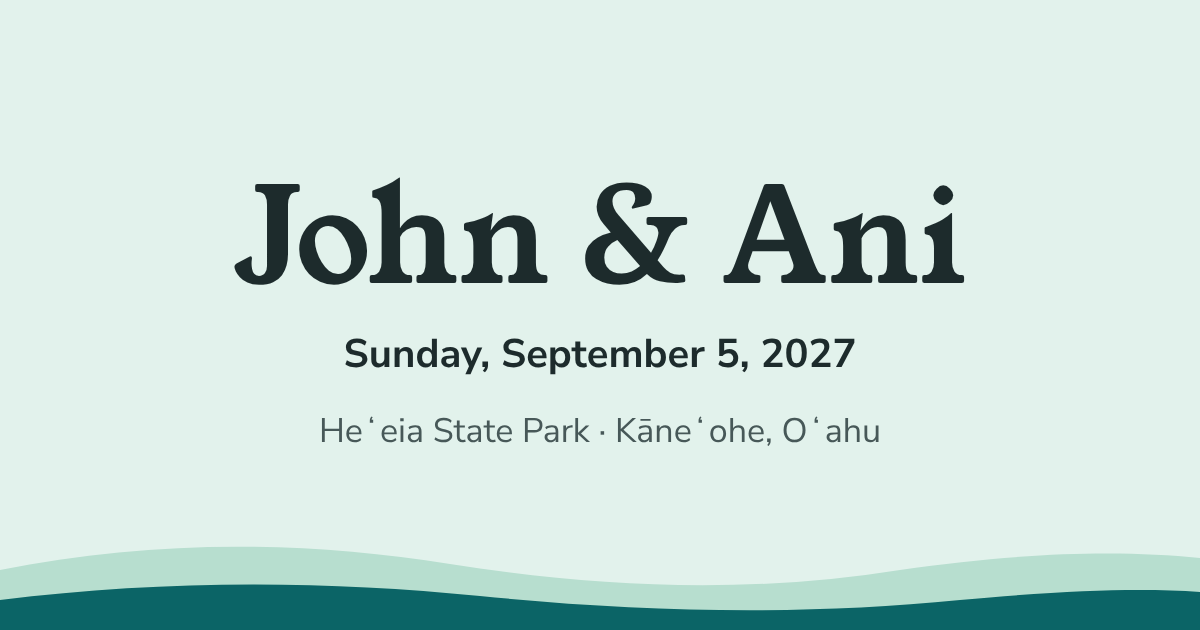
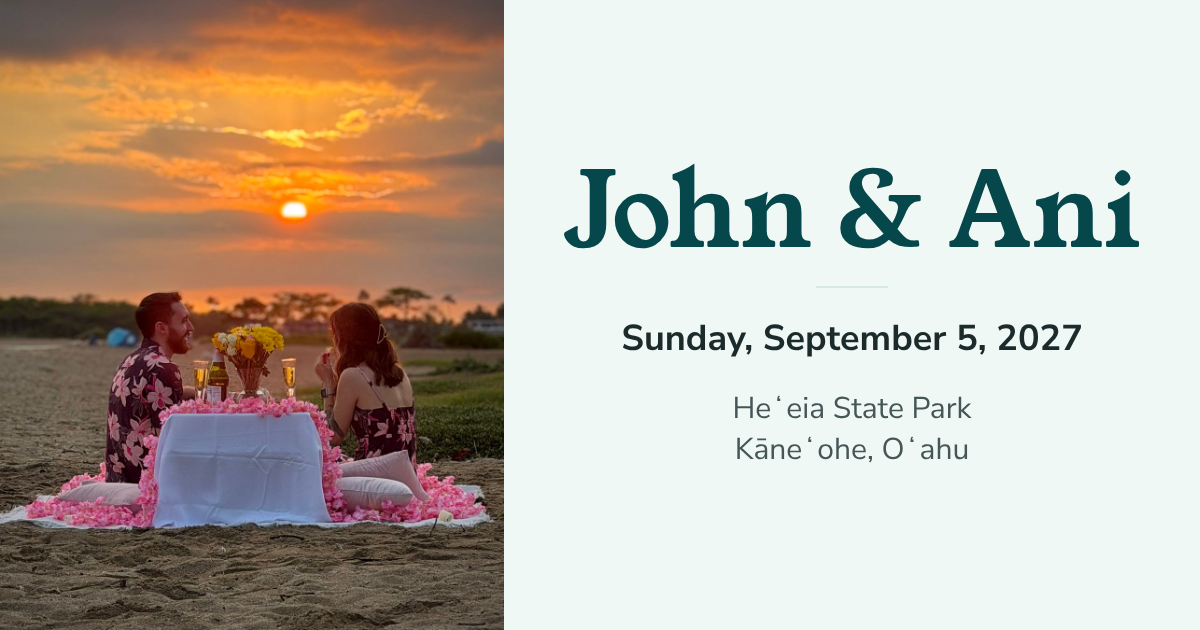
Add wedding photos and refine the palette
- Hero photo on the home section and six story photos with captions,
  plus one photo in Travel and stay. All are cropped, resized, and
  saved with no EXIF data, so no GPS coordinates are published
- Lighter seafoam and darker teal throughout; names and countdown in
  teal, lighter button weight, deep teal footer
- Link preview image now pairs the hero photo with names and date
- Spell the point as Keʻalohi Point

Claude-Session: https://claude.ai/code/session_01FQMpAy4WaidZbc2577iJmn

diff --git a/wedding/index.html b/wedding/index.html
@@ -7,13 +7,13 @@
 <meta name="description" content="John and Ani’s wedding on Sunday, September 5, 2027 at Heʻeia State Park, Kāneʻohe, Oʻahu. Schedule, travel, and RSVP.">
 <meta name="robots" content="noindex, nofollow">
 <meta name="color-scheme" content="light">
-<meta name="theme-color" content="#E2F2EC">
+<meta name="theme-color" content="#F0F8F5">
 <meta property="og:type" content="website">
 <meta property="og:title" content="John &amp; Ani · September 5, 2027">
 <meta property="og:description" content="Our wedding at Heʻeia State Park on Oʻahu. Schedule, travel, and RSVP.">
 <meta property="og:image:width" content="1200">
 <meta property="og:image:height" content="630">
-<meta property="og:image:alt" content="John and Ani, Sunday, September 5, 2027, Heʻeia State Park, Kāneʻohe, Oʻahu">
+<meta property="og:image:alt" content="John and Ani at a table on the beach at sunset, with the date September 5, 2027 and Heʻeia State Park, Kāneʻohe, Oʻahu">
 <meta name="twitter:card" content="summary_large_image">
 <!-- build:head -->
 <link rel="canonical" href="https://manionjohn.com/wedding/">
@@ -65,6 +65,7 @@
       <h1 id="names">John &amp; Ani</h1>
       <p class="hero-date">Sunday, September 5, 2027</p>
       <p class="hero-place">Heʻeia State Park<br>Kāneʻohe, Oʻahu</p>
+      <img class="hero-photo" src="assets/img/hero.jpg" width="1080" height="1350" alt="John and Ani at a flower-covered table on the beach at sunset">
       <div class="countdown" id="countdown" role="timer" aria-label="Countdown to the wedding" hidden></div>
       <p class="hero-welcome"><span class="tbd">[TBD] Short welcome line</span></p>
       <a class="btn btn-large" href="rsvp/">RSVP</a>
@@ -81,12 +82,12 @@
         <p class="tbd-block">[TBD] The proposal, and why we chose Oʻahu.</p>
       </div>
       <div class="photo-grid">
-        <figure><div class="photo-slot" role="img" aria-label="Photo placeholder 1">[TBD] Photo 1</div><figcaption><span class="tbd">[TBD] Caption</span></figcaption></figure>
-        <figure><div class="photo-slot" role="img" aria-label="Photo placeholder 2">[TBD] Photo 2</div><figcaption><span class="tbd">[TBD] Caption</span></figcaption></figure>
-        <figure><div class="photo-slot" role="img" aria-label="Photo placeholder 3">[TBD] Photo 3</div><figcaption><span class="tbd">[TBD] Caption</span></figcaption></figure>
-        <figure><div class="photo-slot" role="img" aria-label="Photo placeholder 4">[TBD] Photo 4</div><figcaption><span class="tbd">[TBD] Caption</span></figcaption></figure>
-        <figure><div class="photo-slot" role="img" aria-label="Photo placeholder 5">[TBD] Photo 5</div><figcaption><span class="tbd">[TBD] Caption</span></figcaption></figure>
-        <figure><div class="photo-slot" role="img" aria-label="Photo placeholder 6">[TBD] Photo 6</div><figcaption><span class="tbd">[TBD] Caption</span></figcaption></figure>
+        <figure><img src="assets/img/story-1.jpg" width="800" height="1000" loading="lazy" alt="Selfie of Ani and John, Ani with tongue out"><figcaption>When we became official! January 2022</figcaption></figure>
+        <figure><img src="assets/img/story-2.jpg" width="800" height="1000" loading="lazy" alt="John and Ani smiling on a balcony above the ocean at dusk"><figcaption><span class="tbd">[TBD] Caption</span></figcaption></figure>
+        <figure><img src="assets/img/story-3.jpg" width="300" height="375" loading="lazy" alt="John and Ani sitting together on a leather couch"><figcaption>Ani’s 25th birthday, May 2023</figcaption></figure>
+        <figure><img src="assets/img/story-4.jpg" width="800" height="1000" loading="lazy" alt="Ani and John about to kiss in front of the Golden Gate Bridge"><figcaption>San Francisco, 2024</figcaption></figure>
+        <figure><img src="assets/img/story-5.jpg" width="800" height="1000" loading="lazy" alt="Ani dressed as Princess Peach and John as Waluigi"><figcaption>Halloween, 2025</figcaption></figure>
+        <figure><img src="assets/img/story-6.jpg" width="800" height="1000" loading="lazy" alt="John and Ani wearing lei at a party"><figcaption>Our proposal party, January 2026</figcaption></figure>
       </div>
     </div>
   </section>
@@ -120,7 +121,7 @@
       <div class="stack">
         <h3>Heʻeia State Park</h3>
         <address class="address">46-465 Kamehameha Hwy<br>Kāneʻohe, HI 96744</address>
-        <p>The park sits on Kealohi Point on the windward side of Oʻahu, looking out over Kāneʻohe Bay toward Mokuoloʻe (Coconut Island).</p>
+        <p>The park sits on Keʻalohi Point on the windward side of Oʻahu, looking out over Kāneʻohe Bay toward Mokuoloʻe (Coconut Island).</p>
         <p><span class="tbd">[TBD] Where in the park the ceremony and reception are</span></p>
       </div>
       <iframe class="map-frame" title="Map of Heʻeia State Park" loading="lazy" referrerpolicy="no-referrer"
@@ -150,6 +151,7 @@
   <section class="section band" id="travel" aria-labelledby="travel-title">
     <div class="section-inner">
       <h2 id="travel-title">Travel and stay</h2>
+      <img class="wide-photo" src="assets/img/sunset.jpg" width="1280" height="853" loading="lazy" alt="Ani and John smiling at sunset with palm trees behind them">
       <div class="note">
         <p class="note-title">It’s Labor Day weekend</p>
         <p>The wedding is on the Sunday of Labor Day weekend, and Monday, September 6 is the holiday. Flights, hotels, and rental cars on Oʻahu fill up and get expensive, so please book early.</p>

diff --git a/wedding/assets/site.css b/wedding/assets/site.css
@@ -36,15 +36,16 @@
 
 :root {
   /* Seafoam and teal. Text colors pass WCAG AA on both --sand and --seafoam. */
-  --sand: #FBFAF6;
+  --sand: #FDFDFB;
   --white: #FFFFFF;
-  --seafoam: #E2F2EC;
-  --seafoam-deep: #B7DECF;
-  --ink: #1D2B2C;
-  --muted: #475858;
-  --teal: #0B6466;
-  --teal-dark: #084A4C;
-  --line: #CFE2DB;
+  --seafoam: #F0F8F5;
+  --seafoam-deep: #D4EAE2;
+  --ink: #1B2A2B;
+  --muted: #455657;
+  --teal: #05474A;
+  --teal-dark: #033234;
+  --footer: #06363A;
+  --line: #DCEAE5;
   --field-border: #637877;
   --tbd-bg: #FFF4C2;
   --tbd-border: #8A6D00;
@@ -96,8 +97,8 @@ p { margin: 0; }
 .btn {
   display: inline-flex; align-items: center; justify-content: center; gap: 8px;
   min-height: 48px; padding: 10px 22px; border-radius: 12px;
-  font: inherit; font-weight: 700; font-size: 1.0625rem; text-decoration: none; cursor: pointer;
-  background: var(--teal); color: var(--white); border: 2px solid var(--teal);
+  font: inherit; font-weight: 600; font-size: 1.0625rem; letter-spacing: 0.01em; text-decoration: none; cursor: pointer;
+  background: var(--teal); color: var(--white); border: 1.5px solid var(--teal);
 }
 .btn:hover { background: var(--teal-dark); border-color: var(--teal-dark); color: var(--white); }
 .btn-outline { background: var(--white); color: var(--teal); }
@@ -151,7 +152,8 @@ main section { scroll-margin-top: var(--scroll-offset); }
 /* Hero */
 .hero { background: var(--seafoam); text-align: center; padding: 48px 0 0; }
 .hero-inner { max-width: 40rem; margin: 0 auto; padding: 0 16px; display: grid; gap: 16px; justify-items: center; }
-.hero h1 { font-size: clamp(3rem, 15vw, 5rem); line-height: 1; letter-spacing: -0.01em; }
+.hero h1 { font-size: clamp(3rem, 15vw, 5rem); line-height: 1; letter-spacing: -0.01em; color: var(--teal); }
+.hero-photo { width: 100%; max-width: 26rem; aspect-ratio: 4 / 5; object-fit: cover; border-radius: 18px; margin: 8px 0; box-shadow: 0 14px 32px rgba(5, 71, 74, 0.14); }
 .hero-date { font-size: 1.3125rem; font-weight: 700; }
 .hero-place { color: var(--muted); font-size: 1.1875rem; }
 .hero-welcome { max-width: 32rem; }
@@ -162,19 +164,17 @@ main section { scroll-margin-top: var(--scroll-offset); }
 /* Countdown */
 .countdown { display: flex; justify-content: center; gap: 10px; flex-wrap: wrap; margin: 4px 0; }
 .countdown[hidden] { display: none; }
-.count-box { background: var(--white); border: 1px solid var(--seafoam-deep); border-radius: 12px; min-width: 88px; padding: 10px 8px 8px; }
-.count-num { display: block; font-family: var(--display); font-size: 2rem; line-height: 1.1; font-variant-numeric: tabular-nums; }
+.count-box { min-width: 80px; padding: 4px 10px; }
+.count-box + .count-box { border-left: 1px solid var(--seafoam-deep); }
+.count-num { display: block; font-family: var(--display); font-size: 2.25rem; line-height: 1.1; color: var(--teal); font-variant-numeric: tabular-nums; }
 .count-label { font-size: 0.9375rem; color: var(--muted); }
 .countdown-today { font-family: var(--display); font-size: 1.75rem; }
 
 /* Photos */
 .photo-grid { display: grid; grid-template-columns: 1fr 1fr; gap: 12px; }
-.photo-grid figure { margin: 0; display: grid; gap: 6px; }
-.photo-slot {
-  aspect-ratio: 4 / 5; max-width: 100%; border-radius: 12px; background: var(--seafoam);
-  border: 1.5px dashed var(--tbd-border); display: grid; place-items: center; text-align: center;
-  font-weight: 700; color: var(--ink); padding: 8px;
-}
+.photo-grid figure { margin: 0; display: grid; gap: 6px; align-content: start; }
+.photo-grid img { width: 100%; aspect-ratio: 4 / 5; object-fit: cover; border-radius: 12px; background: var(--seafoam); }
+.wide-photo { width: 100%; aspect-ratio: 3 / 2; object-fit: cover; border-radius: var(--radius); background: var(--seafoam); }
 .photo-grid figcaption { font-size: 0.9375rem; color: var(--muted); }
 
 /* Schedule */
@@ -211,7 +211,7 @@ main section { scroll-margin-top: var(--scroll-offset); }
 .faq-item h3 { font-size: 1.25rem; }
 
 /* Footer */
-.site-footer { background: var(--ink); color: #EAF4F0; padding: 40px 16px 48px; text-align: center; }
+.site-footer { background: var(--footer); color: #EAF4F0; padding: 40px 16px 48px; text-align: center; }
 .site-footer .section-inner { gap: 12px; justify-items: center; }
 .site-footer a { color: #9FE0D2; }
 .site-footer a:hover { color: var(--white); }

diff --git a/wedding/tools/og-image.html b/wedding/tools/og-image.html
@@ -12,25 +12,24 @@
 <link rel="stylesheet" href="../assets/site.css">
 <style>
   html, body { margin: 0; width: 1200px; height: 630px; overflow: hidden; }
-  .og {
-    width: 1200px; height: 630px; position: relative; background: var(--seafoam);
-    display: grid; place-content: center; text-align: center; gap: 18px; color: var(--ink);
-  }
-  .og h1 { font-size: 132px; line-height: 1; }
-  .og .date { font-family: var(--body); font-weight: 700; font-size: 40px; }
-  .og .place { font-family: var(--body); font-size: 34px; color: var(--muted); }
-  .og svg { position: absolute; left: 0; right: 0; bottom: 0; width: 100%; height: 120px; }
+  .og { width: 1200px; height: 630px; display: grid; grid-template-columns: 504px 1fr; background: var(--seafoam); color: var(--ink); }
+  .og img { width: 504px; height: 630px; object-fit: cover; object-position: center 60%; }
+  .og-text { display: grid; place-content: center; text-align: center; gap: 22px; padding: 0 40px; }
+  .og h1 { font-size: 104px; line-height: 1; color: var(--teal); }
+  .og .date { font-family: var(--body); font-weight: 700; font-size: 36px; }
+  .og .place { font-family: var(--body); font-size: 30px; color: var(--muted); line-height: 1.35; }
+  .og .rule { width: 72px; height: 2px; background: var(--seafoam-deep); justify-self: center; }
 </style>
 </head>
 <body>
   <div class="og">
-    <h1>John &amp; Ani</h1>
-    <p class="date">Sunday, September 5, 2027</p>
-    <p class="place">Heʻeia State Park · Kāneʻohe, Oʻahu</p>
-    <svg viewBox="0 0 1200 120" preserveAspectRatio="none" aria-hidden="true">
-      <path d="M0 60 C 150 30 300 30 450 54 C 600 78 750 84 900 60 C 1025 42 1120 40 1200 48 L 1200 120 L 0 120 Z" fill="#B7DECF"/>
-      <path d="M0 90 C 160 70 320 70 480 86 C 640 102 800 106 960 90 C 1070 80 1140 78 1200 82 L 1200 120 L 0 120 Z" fill="#0B6466"/>
-    </svg>
+    <img src="../assets/img/hero.jpg" alt="">
+    <div class="og-text">
+      <h1>John &amp; Ani</h1>
+      <span class="rule"></span>
+      <p class="date">Sunday, September 5, 2027</p>
+      <p class="place">Heʻeia State Park<br>Kāneʻohe, Oʻahu</p>
+    </div>
   </div>
 </body>
 </html>

diff --git a/wedding/rsvp/index.html b/wedding/rsvp/index.html
@@ -7,13 +7,13 @@
 <meta name="description" content="RSVP for John and Ani’s wedding on Sunday, September 5, 2027 at Heʻeia State Park, Oʻahu.">
 <meta name="robots" content="noindex, nofollow">
 <meta name="color-scheme" content="light">
-<meta name="theme-color" content="#E2F2EC">
+<meta name="theme-color" content="#F0F8F5">
 <meta property="og:type" content="website">
 <meta property="og:title" content="RSVP · John &amp; Ani">
 <meta property="og:description" content="RSVP for our wedding on September 5, 2027 at Heʻeia State Park, Oʻahu.">
 <meta property="og:image:width" content="1200">
 <meta property="og:image:height" content="630">
-<meta property="og:image:alt" content="John and Ani, Sunday, September 5, 2027, Heʻeia State Park, Kāneʻohe, Oʻahu">
+<meta property="og:image:alt" content="John and Ani at a table on the beach at sunset, with the date September 5, 2027 and Heʻeia State Park, Kāneʻohe, Oʻahu">
 <meta name="twitter:card" content="summary_large_image">
 <!-- build:head -->
 <link rel="canonical" href="https://manionjohn.com/wedding/rsvp/">

diff --git a/wedding/TODO.md b/wedding/TODO.md
@@ -11,7 +11,7 @@ Every `[TBD]` still on the site, by section. Fill these in `index.html` unless a
 
 - [ ] "How we met" paragraphs
 - [ ] "The proposal, and why we chose Oʻahu" paragraphs
-- [ ] Photos 1 to 6, with captions. Upload them on the photo drop page and I'll add them
+- [ ] Caption for photo 2 (balcony above the ocean, September 2022)
 
 ## Schedule
 
@@ -64,7 +64,6 @@ From public sources:
 
 - Address: 46-465 Kamehameha Hwy, Kāneʻohe, HI 96744 (Hawaiʻi DLNR State Parks listing)
 - Map pin at 21.43972, -157.80889 (Wikipedia's coordinates for the park). The map couldn't load from my test environment, so check that the pin lands in the right spot once the site is live
-- "Kealohi Point" spelling. The rental agreement writes "Ke'alohi"; the venue's own domain is kealohipoint.com
 - The view across Kāneʻohe Bay toward Mokuoloʻe (Coconut Island)
 - Drive times: 30 to 45 minutes from HNL, 35 to 45 minutes from Waikīkī (travel guides; traffic varies)
 - Sunset about 6:45 pm HST on September 5, 2027 (solar calculation for the park's location)
